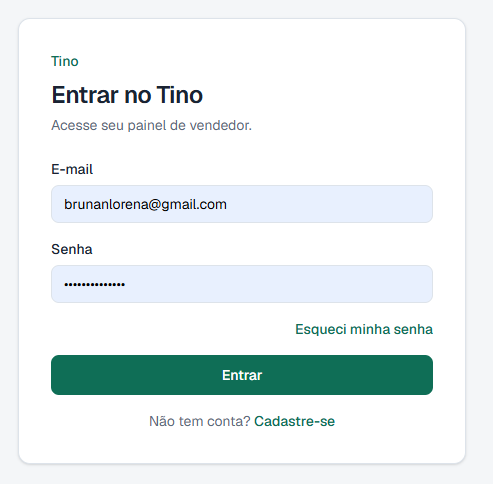
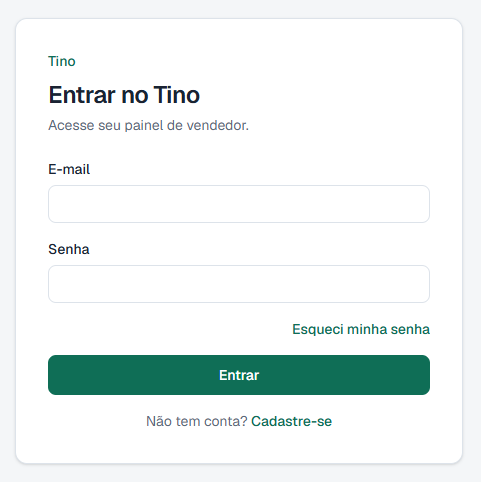
Troca o print de login do Tino por uma tela vazia, para não expor dados de acesso no portfólio.

diff --git a/js/app.js b/js/app.js
@@ -617,7 +617,7 @@ const DEMO_GALLERIES = {
     title: IS_EN ? "Tino — visual prototype" : "Tino — protótipo visual",
     slides: [
       {
-        src: "images/tino/login.png",
+        src: "images/tino/login.png?v=2",
         caption: IS_EN ? "Login screen" : "Tela de Login",
       },
       {

diff --git a/en.html b/en.html
@@ -511,6 +511,6 @@
       </div>
     </dialog>
 
-    <script src="js/app.js?v=25"></script>
+    <script src="js/app.js?v=26"></script>
   </body>
 </html>

diff --git a/index.html b/index.html
@@ -520,6 +520,6 @@
       </div>
     </dialog>
 
-    <script src="js/app.js?v=25"></script>
+    <script src="js/app.js?v=26"></script>
   </body>
 </html>
